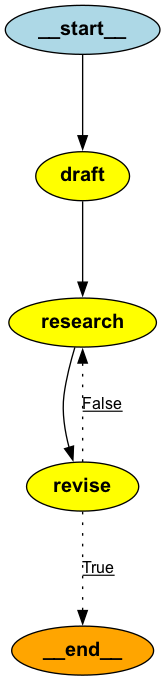
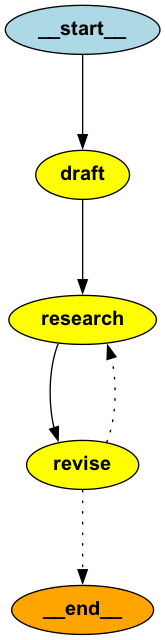
Almost done - need to refine the revise prompts

Changed region(s): [[0.0303, 0.4062, 0.9697, 1.0], [0.0303, 0.0, 0.9697, 0.0938], [0.2121, 0.1875, 0.7879, 0.3125]]

diff --git a/examples/reflexion/reflexion_utils.py b/examples/reflexion/reflexion_utils.py
@@ -1,10 +1,13 @@
 from abc import abstractmethod
 import datetime
+import uuid
+import copy
 from json import tool
 from unittest import result
 from unittest.mock import Base
-from typing import List, Annotated, cast, Optional, Literal
+from typing import List, Annotated, cast, Optional, Literal, Dict
 from enum import Enum
+from groq import APIError, BadRequestError
 from langchain_core.pydantic_v1 import BaseModel, validator, Field
 from langchain_core.output_parsers import PydanticToolsParser
 from langchain_core.messages import (
@@ -87,37 +90,37 @@ class AI_QAResponse(BaseModel):
         ),
     ]
 
-    confidence_score: Annotated[
-        float,
-        Field(
-            description="A self-assessed score (0.0 to 1.0) indicating the AI's confidence in the accuracy and completeness of its initial response, guiding the need for additional research.",
-            ge=0.0,
-            le=1.0,
-        ),
-    ]
+    # confidence_score: Annotated[
+    #     float,
+    #     Field(
+    #         description="A self-assessed score (0.0 to 1.0) indicating the AI's confidence in the accuracy and completeness of its initial response, guiding the need for additional research.",
+    #         ge=0.0,
+    #         le=1.0,
+    #     ),
+    # ]
 
-    priority_topics: Annotated[
-        List[str],
-        Field(
-            description="A list of 2-3 key topics or areas from the response that would benefit most from additional research and verification.",
-            min_items=2,
-            max_items=3,
-        ),
-    ]
+    # priority_topics: Annotated[
+    #     List[str],
+    #     Field(
+    #         description="A list of 2-3 key topics or areas from the response that would benefit most from additional research and verification.",
+    #         min_items=2,
+    #         max_items=3,
+    #     ),
+    # ]
 
-    @validator("confidence_score")
-    def validate_confidence_score(cls, v):
-        if v < 0.0 or v > 1.0:
-            raise ValueError(
-                "The confidence score must be a value between 0.0 and 1.0."
-            )
-        return v
+    # @validator("confidence_score")
+    # def validate_confidence_score(cls, v):
+    #     if v < 0.0 or v > 1.0:
+    #         raise ValueError(
+    #             "The confidence score must be a value between 0.0 and 1.0."
+    #         )
+    #     return v
 
-    @validator("priority_topics")
-    def validate_priority_topics(cls, v):
-        if len(v) < 2 or len(v) > 3:
-            raise ValueError("The number of priority topics must be between 2 and 3.")
-        return v
+    # @validator("priority_topics")
+    # def validate_priority_topics(cls, v):
+    #     if len(v) < 2 or len(v) > 3:
+    #         raise ValueError("The number of priority topics must be between 2 and 3.")
+    #     return v
 
     @validator("suggested_queries")
     def validate_suggested_queries(cls, v):
@@ -273,21 +276,48 @@ Remember, your goal is to provide a concise, well-supported, and accurate respon
         """
         Write the first draft of the essay and provide a self-reflection on the writing process.
         """
+        cloned_messages = copy.copy(messages)
         for attempt in range(self.try_num):
             config: RunnableConfig = {"tags": [f"attempt:{attempt}"]}
-            response = self.draft_chain.invoke(
-                input={"messages": messages}, config=config
-            )
             try:
-                self.draft_validator.invoke(input=response)
-                return response
-            except ValidationError_Wrapper as e:
-                messages.append(response)
+                response = self.draft_chain.invoke(
+                    input={"messages": cloned_messages}, config=config
+                )
+            except Exception as e:
                 validation_message = ToolMessage(
-                    content=f"Validation Error: {repr(e.errors())}\n\nRegenerating the response to fix the above validation error!",
+                    content=f"The AI tried to generate a response but got the following error:\n\n{repr(e)}\n\nRegenerating the response to fix the above generation error!",
+                    tool_call_id=str(uuid.uuid4()),
+                )
+                cloned_messages.append(validation_message)
+                continue
+            try:
+                if len(self.draft_validator.invoke(input=response)) != 0:
+                    return response
+                else:
+                    raise ValidationError("The response is not a valid JSON object!")
+            except ValidationError_Wrapper as e:
+                cloned_messages.append(response)
+                tool_schemas = '\n\n'.join([t.schema_json() for t in self.draft_validator.tools])
+                validation_message = ToolMessage(
+                    content=f"Validation Error: {repr(e.errors())}\n\nPay close attention to the schema:\n{tool_schemas}\n\nRegenerating the response to fix the above validation error!",
                     tool_call_id=response.tool_calls[0]["id"],
                 )
-                messages.append(validation_message)
+                cloned_messages.append(validation_message)
+            except Exception as e:
+                cloned_messages.append(response)
+                tool_schemas = '\n\n'.join([t.schema_json() for t in self.draft_validator.tools])
+                error_msg = repr(e)
+                if isinstance(e, BadRequestError):
+                    error_msg = cast(BadRequestError, e)
+                    error_msg = cast(Dict, error_msg.body)
+                    error_msg = repr(error_msg.get("error", error_msg))
+                    
+                validation_message = ToolMessage(
+                    content=f"The AI tried to generate a response but got the following error:\n\n{error_msg}\n\nRegenerating the response to fix the above generation error!", # Consider to remove unnecessary tags.
+                    tool_call_id=response.tool_calls[0]["id"],
+                )
+                cloned_messages.append(validation_message)
+
         raise ValueError(
             f"Failed to validate the response after {self.try_num} attempts!"
         )
@@ -320,27 +350,52 @@ Remember, your goal is to provide a concise, well-supported, and accurate respon
         """
         Revise the answer based on the feedback from the reflection and research.
         """
+        cloned_messages = copy.copy(messages)
         results:List[BaseMessage] = []
         revise_message = HumanMessage(content=self.revise_instruction)
-        messages.append(revise_message)
+        cloned_messages.append(revise_message)
         results.append(revise_message)
         for attempt in range(self.try_num):
             config: RunnableConfig = {"tags": [f"attempt:{attempt}"]}
-            response = self.revise_chain.invoke(
-                input={"messages": messages}, config=config
-            )
             try:
-                self.revise_validator.invoke(input=response)
-                results.append(response)
-                return results
+                response = self.revise_chain.invoke(
+                    input={"messages": cloned_messages}, config=config
+                )
+            except Exception as e:
+                error_msg = repr(e)
+                if isinstance(e, BadRequestError):
+                    error_msg = cast(BadRequestError, e)
+                    error_msg = cast(Dict, error_msg.body)
+                    error_msg = repr(error_msg.get("error", error_msg))
+                validation_message = ToolMessage(
+                    content=f"The AI tried to generate a response but got the following error:\n\n{error_msg}\n\nRegenerating the response to fix the above generation error!", # Consider to remove unnecessary tags.
+                    tool_call_id=str(uuid.uuid4()),
+                )
+                cloned_messages.append(validation_message)
+                continue
+            try:
+                if len(self.revise_validator.invoke(input=response)) != 0:
+                    results.append(response)
+                    return results
+                else:
+                    raise ValidationError("The response is not a valid JSON object!")
             except ValidationError_Wrapper as e:
                 # No need to append response or validation_message to the final results list if the validation fails
-                messages.append(response)
+                cloned_messages.append(response)
+                tool_schemas = '\n\n'.join([t.schema_json() for t in self.revise_validator.tools])
                 validation_message = ToolMessage(
-                    content=f"Validation Error: {repr(e.errors())}\n\nRegenerating the response to fix the above validation error!",
+                    content=f"Validation Error: {repr(e.errors())}\n\nPay close attention to the schema:\n{tool_schemas}\n\nRegenerating the response to fix the above validation error!",
                     tool_call_id=response.tool_calls[0]["id"],
                 )
-                messages.append(validation_message)
+                cloned_messages.append(validation_message)
+            except Exception as e:
+                cloned_messages.append(response)
+                tool_schemas = '\n\n'.join([t.schema_json() for t in self.revise_validator.tools])
+                validation_message = ToolMessage(
+                    content=f"Validation Error: {repr(e)}\n\nPay close attention to the schema:\n{tool_schemas}\n\nRegenerating the response to fix the above validation error!",
+                    tool_call_id=response.tool_calls[0]["id"],
+                )
+                cloned_messages.append(validation_message)
         raise ValueError(f"Failed to validate the response after {self.try_num} attempts!")
 
     def finish_revise(self, messages: List[BaseMessage]) -> Literal["__end__", "research"]:
@@ -357,7 +412,7 @@ Remember, your goal is to provide a concise, well-supported, and accurate respon
             if m.type not in ["ai", "tool"]:
                 count += 1
                 if count >= thredshold:
-                    return "__end__"
+                    return END
         return "research"
 
 

diff --git a/examples/reflexion/reflexion_002.py b/examples/reflexion/reflexion_002.py
@@ -4,32 +4,44 @@ import os, json
 from reflexion_utils import ReflectionUtils, AI_QAResponse, AI_QARevision
 from langgraph.graph import END, MessageGraph, START
 from langchain_core.output_parsers import PydanticToolsParser
+from langchain_core.language_models.chat_models import BaseChatModel
+from langchain_core.messages import HumanMessage
 from pydantic.v1.types import SecretStr as SecretStr_v1
+from typing import cast
 
 # Set the environment variables
 # os.environ['LANGCHAIN_API_KEY'] = ''
 set_env()
-os.environ['LANGCHAIN_PROJECT'] = 'LangGraph - Reflexion'
+os.environ['LANGCHAIN_PROJECT'] = 'LangGraph - Reflexion - 002'
 
 system_task="Write an essay on the following topic with about 300 words."
 draft_validator = PydanticToolsParser(name="AIResponse Validator", tools=[AI_QAResponse])
 revise_validator = PydanticToolsParser(name="AIResponse Validator", tools=[AI_QARevision])
-reflection = ReflectionUtils(first_instruction=system_task, draft_validator=draft_validator,
-                             TAVILY_API_KEY=SecretStr_v1(os.environ['TAVILY_API_KEY']), revise_validator=revise_validator)
+llm = get_llm(vendor="openai", model="gpt-4o-mini", temperature=0.5, max_tokens=4096)
+llm = get_llm(vendor="groq", model="llama-3.1-70b-versatile", temperature=0.5, max_tokens=4096)
+# llm = get_llm(vendor="groq", model="llama-3.1-8b-instant", temperature=0.5, max_tokens=4096)
+reflection = ReflectionUtils(first_instruction=system_task,
+                             draft_validator=draft_validator,
+                             revise_validator=revise_validator,
+                             llm=cast(BaseChatModel, llm),
+                             TAVILY_API_KEY=SecretStr_v1(os.environ['TAVILY_API_KEY']))
 
 builder = MessageGraph()
 builder.add_node("draft", reflection.draft_node)
 builder.add_node("research", reflection.research)
 builder.add_node("revise", reflection.revise)
 
-builder.add_edge(START, "draft")
 builder.add_edge("draft", "research")
 builder.add_edge("research", "revise")
 builder.add_conditional_edges(source="revise",
                               path=reflection.finish_revise,
-                              path_map={True: END, False: "research"})
+                              path_map={END: END, "research": "research"})
 
+builder.set_entry_point("draft")
 graph = builder.compile()
 save_graph_image(graph, "img/reflexion_002.png")
+
+messages = [HumanMessage(content="What is cryptocurrency and how does it work?")]
+graph.invoke(input=messages)
 
 pass
